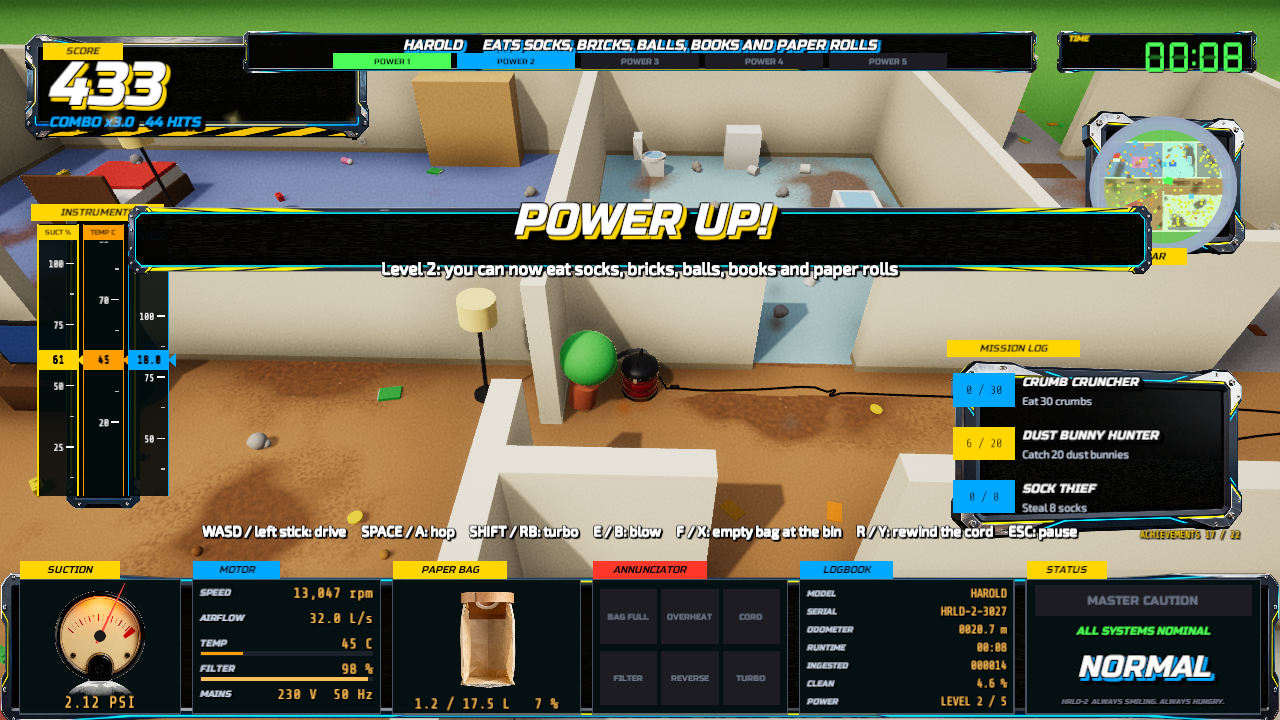
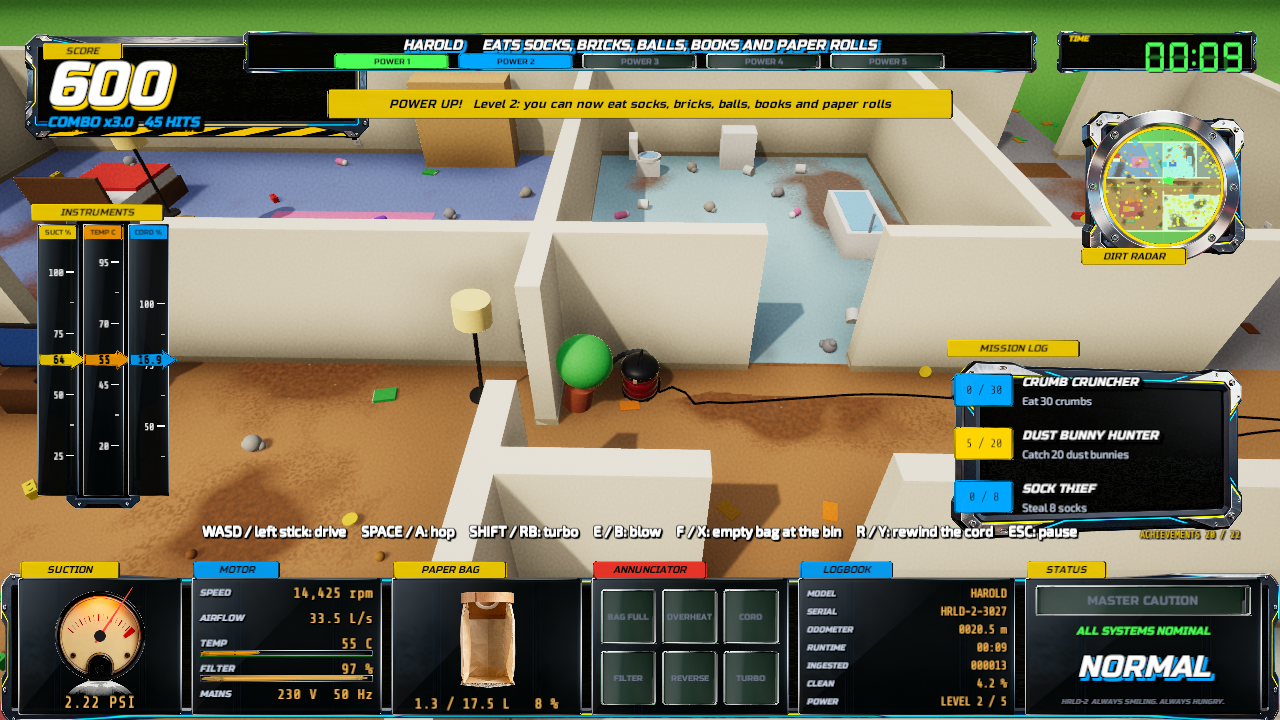
0.4.0: the eleven imported machines join the garage collection with names of their own (Hubert the Grin, Baron Vortex, Sir Mops-a-Lot, Big Bertha, Twiglet, Wanda, Monsieur Traineau, Bluebarrel, Bumper, Puck, Hubert Junior), no credit line under the name (docs/CREDITS.md keeps them), museum toggle re
Claude-Session: https://claude.ai/code/session_01S8Gcv6w4NipyAN3xdLWj4x

diff --git a/Assets/Scripts/Player/ImportedVacuums.cs b/Assets/Scripts/Player/ImportedVacuums.cs
@@ -5,10 +5,10 @@ using VCS.World;
 namespace VCS.Player
 {
     /// <summary>
-    /// The museum: real machines on loan. Meshes downloaded from Objaverse (the Hugging Face mirror of Sketchfab's
+    /// Real machines in the collection. Meshes downloaded from Objaverse (the Hugging Face mirror of Sketchfab's
     /// Creative Commons models), decimated to about 4k faces by tools/lowpoly.py into Resources/Models, and listed
-    /// here as hidden catalogue entries (M on the title screen opens the museum). Every entry carries its CC-BY
-    /// credit, shown under the name and repeated in docs/CREDITS.md. Names are the game's own; no brand is claimed.
+    /// after the eight built models. Every entry carries its CC-BY credit for docs/CREDITS.md (the garage shows only
+    /// the game's own name and tagline). Names are the game's own; no brand is claimed.
     /// </summary>
     public static class ImportedVacuums
     {
@@ -25,27 +25,27 @@ namespace VCS.Player
 
         static readonly Entry[] Entries =
         {
-            new Entry { Id = "m_redcanister", Model = "henry", Name = "The Red Canister", Tagline = "A smile, a hose, a bag the size of a pillow.",
+            new Entry { Id = "m_redcanister", Model = "henry", Name = "Hubert the Grin", Tagline = "A smile, a hose, a bag the size of a pillow.",
                         Credit = "Model: Henry Vacuum by rhcreations (CC BY 4.0, Sketchfab)", Size = 0.62f, Height = 0.55f, Nozzle = new Vector3(0.05f, 0.05f, 0.28f), Bag = 160f, Speed = 6.5f },
-            new Entry { Id = "m_cyclone", Model = "dyson_upright", Name = "The Cyclone Upright", Tagline = "Ball, bin, no bag, no mercy.",
+            new Entry { Id = "m_cyclone", Model = "dyson_upright", Name = "Baron Vortex", Tagline = "Ball, bin, no bag, no mercy.",
                         Credit = "Model: Upright Dyson Vacuum Cleaner by rhcreations (CC BY 4.0, Sketchfab)", Size = 0.42f, Height = 1.2f, Nozzle = new Vector3(0f, 0.05f, 0.17f), Speed = 7.5f, Hop = 7f },
-            new Entry { Id = "m_aquastick", Model = "philips_aquatrio", Name = "The Wet Stick", Tagline = "Vacuums, mops, judges.",
+            new Entry { Id = "m_aquastick", Model = "philips_aquatrio", Name = "Sir Mops-a-Lot", Tagline = "Vacuums, mops, judges.",
                         Credit = "Model: PHILIPS AquaTrio Pro by artemtem (CC BY 4.0, Sketchfab)", Size = 0.42f, Height = 1.25f, Nozzle = new Vector3(0f, 0.05f, 0.16f), Cordless = true, Speed = 7.5f, Bag = 60f },
-            new Entry { Id = "m_yellowdrum", Model = "vacuum_4k", Name = "The Yellow Drum", Tagline = "Workshop grade. Eats screws for breakfast.",
+            new Entry { Id = "m_yellowdrum", Model = "vacuum_4k", Name = "Big Bertha", Tagline = "Workshop grade. Eats screws for breakfast.",
                         Credit = "Model: Vacuum Cleaner by rescue3d (CC BY 4.0, Sketchfab)", Size = 0.62f, Height = 0.75f, Yaw = -29f, Nozzle = new Vector3(0f, 0.05f, 0.32f), Bag = 220f, Speed = 5.5f },
-            new Entry { Id = "m_greystick", Model = "sixth_hm", Name = "The Grey Stick", Tagline = "Student project. Surprisingly hungry.",
+            new Entry { Id = "m_greystick", Model = "sixth_hm", Name = "Twiglet", Tagline = "Student project. Surprisingly hungry.",
                         Credit = "Model: Sixth HM XYZ - A vacuum cleaner by nimzuk (CC BY 4.0, Sketchfab)", Size = 0.34f, Height = 1.2f, Yaw = -90f, Nozzle = new Vector3(0f, 0.05f, 0.10f), Speed = 7f, Bag = 50f },
-            new Entry { Id = "m_wand", Model = "vacuum_20k", Name = "The Cordless Wand", Tagline = "Forty minutes of battery, forty years of dust.",
+            new Entry { Id = "m_wand", Model = "vacuum_20k", Name = "Wanda", Tagline = "Forty minutes of battery, forty years of dust.",
                         Credit = "Model: Vacuum Cleaner by kikumi (CC BY 4.0, Sketchfab)", Size = 0.34f, Height = 1.1f, Yaw = 90f, Nozzle = new Vector3(0f, 0.05f, 0.18f), Cordless = true, Speed = 8f, Bag = 45f },
-            new Entry { Id = "m_redsled", Model = "vacuum_82k", Name = "The Red Sled", Tagline = "Un traineau. Glisse, aspire, ne dit rien.",
+            new Entry { Id = "m_redsled", Model = "vacuum_82k", Name = "Monsieur Traineau", Tagline = "Un traineau. Glisse, aspire, ne dit rien.",
                         Credit = "Model: vacuum cleaner by huseyinCG (CC BY 4.0, Sketchfab)", Size = 0.9f, Height = 0.5f, Yaw = 90f, Nozzle = new Vector3(0f, 0.05f, 0.42f), Bag = 140f, Speed = 7f },
-            new Entry { Id = "m_bluedrum", Model = "canister_a", Name = "The Blue Drum", Tagline = "Compact, cheerful, slightly too loud.",
+            new Entry { Id = "m_bluedrum", Model = "canister_a", Name = "Bluebarrel", Tagline = "Compact, cheerful, slightly too loud.",
                         Credit = "Model: Vacuum Cleaner by snowykov (CC BY 4.0, Sketchfab)", Size = 0.5f, Height = 0.6f, Nozzle = new Vector3(0f, 0.05f, 0.32f), Bag = 120f, Speed = 6.5f },
-            new Entry { Id = "m_greyrobot", Model = "robvac", Name = "The Grey Robot", Tagline = "Bumps into everything. On purpose.",
+            new Entry { Id = "m_greyrobot", Model = "robvac", Name = "Bumper", Tagline = "Bumps into everything. On purpose.",
                         Credit = "Model: Robot vacuum Cleaner Rob-vac by darkfrei (CC BY 4.0, Sketchfab)", Size = 0.5f, Height = 0.3f, Nozzle = new Vector3(0f, 0.06f, 0.20f), Cordless = true, Speed = 6f, Hop = 4.5f, Bag = 40f },
-            new Entry { Id = "m_roundone", Model = "roomba_888", Name = "The Round One", Tagline = "Eight hundred and eighty-eight polygons of patience.",
+            new Entry { Id = "m_roundone", Model = "roomba_888", Name = "Puck", Tagline = "Eight hundred and eighty-eight polygons of patience.",
                         Credit = "Model: Low-poly Roomba by Seats (CC BY 4.0, Sketchfab)", Size = 0.5f, Height = 0.3f, Nozzle = new Vector3(0f, 0.06f, 0.20f), Cordless = true, Speed = 6.5f, Hop = 4.5f, Bag = 40f },
-            new Entry { Id = "m_littlered", Model = "henry_lowpoly", Name = "The Little Red One", Tagline = "Five hundred polygons and a grin.",
+            new Entry { Id = "m_littlered", Model = "henry_lowpoly", Name = "Hubert Junior", Tagline = "Five hundred polygons and a grin.",
                         Credit = "Model: Low Poly \"Henry Hoover\" Vacuum Cleaner by TheoClarke (CC BY 4.0, Sketchfab)", Size = 0.55f, Height = 0.55f, Nozzle = new Vector3(0f, 0.05f, 0.25f), Bag = 150f, Speed = 6.5f },
         };
 
@@ -57,9 +57,9 @@ namespace VCS.Player
                 var entry = e;
                 all.Add(new VacuumSpec
                 {
-                    Id = entry.Id, Name = entry.Name, Tagline = entry.Tagline, Credit = entry.Credit, Hidden = true,
+                    Id = entry.Id, Name = entry.Name, Tagline = entry.Tagline, Credit = entry.Credit, Imported = true,
                     Speed = entry.Speed, Hop = entry.Hop, BagCapacity = entry.Bag, Cordless = entry.Cordless,
-                    NozzleLocal = entry.Nozzle, Height = entry.Height, ModelCode = "MUSEUM-" + (++n).ToString("00"),
+                    NozzleLocal = entry.Nozzle, Height = entry.Height, ModelCode = "GUEST-" + (++n).ToString("00"),
                     Accent = new Color(0.85f, 0.85f, 0.9f), Build = (g, s) => Build(entry, g),
                 });
             }
@@ -71,7 +71,7 @@ namespace VCS.Player
             var prefab = Resources.Load<GameObject>("Models/" + e.Model);
             if (prefab == null)
             {
-                Debug.LogWarning("[VCS] Museum model missing: " + e.Model);
+                Debug.LogWarning("[VCS] Imported model missing: " + e.Model);
                 PropFactory.Prim(PrimitiveType.Cube, g, new Vector3(0f, 0.25f, 0f), new Vector3(0.4f, 0.5f, 0.4f), Color.gray, "Missing", false);
                 return;
             }

diff --git a/Assets/Scripts/Player/VacuumCatalog.cs b/Assets/Scripts/Player/VacuumCatalog.cs
@@ -50,8 +50,8 @@ namespace VCS.Player
         public float MotorRpmMax = 18000f;
         public Color Accent = new Color(1f, 0.6f, 0.25f);
         public bool Cordless;
-        /// <summary>Museum piece (imported real-product mesh): only listed when the museum is unlocked (M on the title screen).</summary>
-        public bool Hidden;
+        /// <summary>Imported real-product mesh (see ImportedVacuums) rather than a built model; the gallery tools use it.</summary>
+        public bool Imported;
         /// <summary>Attribution line for imported meshes (CC-BY), shown under the name.</summary>
         public string Credit;
         public string ModelCode = "DP-01";
@@ -145,24 +145,8 @@ namespace VCS.Player
             ImportedVacuums.AddTo(All);
         }
 
-        /// <summary>The museum: real machines on loan, imported from Objaverse (see ImportedVacuums).</summary>
-        public static bool MuseumUnlocked
-        {
-            get => PlayerPrefs.GetInt("museum", 0) == 1;
-            set => PlayerPrefs.SetInt("museum", value ? 1 : 0);
-        }
-
-        /// <summary>What the garage shows: the regular eight, plus the museum pieces once unlocked.</summary>
-        public static List<VacuumSpec> Visible
-        {
-            get
-            {
-                var list = new List<VacuumSpec>();
-                bool museum = MuseumUnlocked;
-                foreach (var s in All) if (!s.Hidden || museum) list.Add(s);
-                return list;
-            }
-        }
+        /// <summary>What the garage shows: everything, the eight built models first, then the eleven imported ones.</summary>
+        public static List<VacuumSpec> Visible => All;
 
         public static VacuumSpec Get(string id)
         {

diff --git a/Assets/Scripts/UI/MenuController.cs b/Assets/Scripts/UI/MenuController.cs
@@ -200,7 +200,7 @@ namespace VCS.UI
             VacuumCatalog.SelectedId = s.Id;
             PlayerPrefs.Save();
             vacuumName.text = s.Name.ToUpperInvariant();
-            vacuumTagline.text = string.IsNullOrEmpty(s.Credit) ? s.Tagline : s.Tagline + "\n" + s.Credit;
+            vacuumTagline.text = s.Tagline;
             float[] values = { s.SpeedBar, s.SuctionBar, s.BagBar, s.HopBar };
             for (int k = 0; k < bars.Length; k++)
                 bars[k].rectTransform.anchorMax = new Vector2(Mathf.Clamp(values[k], 0.04f, 1f), 1f);
@@ -228,14 +228,6 @@ namespace VCS.UI
                 titleRect.localRotation = Quaternion.Euler(0f, 0f, Mathf.Sin(t * 2f) * 1.5f);
                 titleRect.localScale = Vector3.one * (1f + 0.02f * Mathf.Sin(t * 3f));
                 titlePrompt.color = new Color(1f, 1f, 1f, 0.85f + 0.15f * Mathf.Sin(t * 4f));
-                if (Input.GetKeyDown(KeyCode.M))
-                {
-                    VacuumCatalog.MuseumUnlocked = !VacuumCatalog.MuseumUnlocked;
-                    SelectVacuumIndex(0);
-                    var gmm = GameManager.I;
-                    if (gmm != null) gmm.Audio.PlayDing();
-                    Debug.Log("[VCS] Museum " + (VacuumCatalog.MuseumUnlocked ? "open" : "closed"));
-                }
                 int h = GameInput.MenuNavHorizontal();
                 if (h != 0)
                 {

diff --git a/Assets/Scripts/Core/GalleryRunner.cs b/Assets/Scripts/Core/GalleryRunner.cs
@@ -51,7 +51,7 @@ namespace VCS.Core
                 VacuumModels.UseV2 = look;
                 foreach (var s in VacuumCatalog.All)
                 {
-                    if (s.Hidden) continue;   // museum pieces are rendered by the import loop below
+                    if (s.Imported) continue;   // imported meshes are rendered by the import loop below
                     string file = Path.Combine(outDir, (look ? "after-" : "before-") + s.Id + ".png");
                     preview.RenderStill(s, -35f, 768, file);
                     Debug.Log("[VCS] Gallery " + file);
@@ -118,7 +118,7 @@ namespace VCS.Core
             Palette.Realistic = true;
             foreach (var s in VacuumCatalog.All)
             {
-                if (!s.Hidden) continue;
+                if (!s.Imported) continue;
                 var spec = s;
                 var marked = new VacuumSpec { Id = spec.Id, Name = spec.Name, Height = spec.Height, NozzleLocal = spec.NozzleLocal, Build = (g, s2) =>
                 {

diff --git a/Assets/Scripts/Player/SuctionSystem.cs b/Assets/Scripts/Player/SuctionSystem.cs
@@ -20,7 +20,8 @@ namespace VCS.Player
     public class SuctionSystem : MonoBehaviour
     {
         static readonly float[] RadiusByPower = { 0f, 2.4f, 3.0f, 3.8f, 4.6f, 5.5f };
-        static readonly float[] AbsorbByPower = { 0f, 0.8f, 0.95f, 1.15f, 1.45f, 1.8f };
+        // 2026-09-06: shortened by about a third, things vanished too far from the nozzle
+        static readonly float[] AbsorbByPower = { 0f, 0.55f, 0.66f, 0.8f, 1.0f, 1.25f };
         static readonly float[] PullByPower = { 0f, 16f, 20f, 26f, 34f, 44f };
         const float HalfAngle = 65f;
         const float BlowForce = 40f;
@@ -145,7 +146,7 @@ namespace VCS.Player
                 if (!inCone) continue;
 
                 bool edible = d.SizeClass <= maxClass && !BagFull;
-                if (edible && dist < absorb * (1f + d.SizeClass * 0.15f))
+                if (edible && dist < absorb * (1f + d.SizeClass * 0.12f))
                 {
                     Absorb(gm, d);
                     continue;

diff --git a/Assets/Editor/ProjectSetup.cs b/Assets/Editor/ProjectSetup.cs
@@ -20,7 +20,7 @@ namespace VCS.Editor
         {
             PlayerSettings.productName = "Vacuum Cleaner Simulator 2026";
             PlayerSettings.companyName = "Cosnuau";
-            PlayerSettings.bundleVersion = "0.3.0";
+            PlayerSettings.bundleVersion = "0.4.0";
             PlayerSettings.colorSpace = ColorSpace.Linear;
             PlayerSettings.fullScreenMode = FullScreenMode.FullScreenWindow;
             PlayerSettings.resizableWindow = true;

diff --git a/Assets/Scripts/Core/GameManager.cs b/Assets/Scripts/Core/GameManager.cs
@@ -18,7 +18,7 @@ namespace VCS.Core
     public class GameManager : MonoBehaviour
     {
         public const string GameName = "Vacuum Cleaner Simulator 2026";
-        public const string Version = "0.3.0";
+        public const string Version = "0.4.0";
         public const int MaxPower = 5;
         public static readonly int[] PowerThresholds = { 0, 300, 1000, 2500, 5000 };
 

diff --git a/docs/CREDITS.md b/docs/CREDITS.md
@@ -1,24 +1,24 @@
 # Credits
 
-## Museum models (Creative Commons Attribution 4.0)
+## Collection models (Creative Commons Attribution 4.0)
 
-The garage's museum (press M on the title screen) shows real machines modelled by the artists below. Meshes come from
+The garage's collection (press M on the title screen) shows real machines modelled by the artists below. Meshes come from
 Objaverse, the open mirror of Sketchfab's Creative Commons models, decimated for the game. They are shown with the
 game's own nicknames; no brand name or logo is claimed by the game.
 
 | In the game | Original model | Author | Licence |
 |-------------|----------------|--------|---------|
-| The Red Canister | Henry Vacuum | rhcreations | CC BY 4.0 |
-| The Little Red One | Low Poly "Henry Hoover" Vacuum Cleaner | TheoClarke | CC BY 4.0 |
-| The Cyclone Upright | Upright Dyson Vacuum Cleaner | rhcreations | CC BY 4.0 |
-| The Wet Stick | PHILIPS AquaTrio Pro | artemtem | CC BY 4.0 |
-| The Yellow Drum | Vacuum Cleaner | rescue3d | CC BY 4.0 |
-| The Grey Stick | Sixth HM XYZ - A vacuum cleaner | nimzuk | CC BY 4.0 |
-| The Cordless Wand | Vacuum Cleaner | kikumi | CC BY 4.0 |
-| The Red Sled | vacuum cleaner | huseyinCG | CC BY 4.0 |
-| The Blue Drum | Vacuum Cleaner | snowykov | CC BY 4.0 |
-| The Grey Robot | Robot vacuum Cleaner Rob-vac | darkfrei | CC BY 4.0 |
-| The Round One | Low-poly Roomba | Seats | CC BY 4.0 |
+| Hubert the Grin | Henry Vacuum | rhcreations | CC BY 4.0 |
+| Hubert Junior | Low Poly "Henry Hoover" Vacuum Cleaner | TheoClarke | CC BY 4.0 |
+| Baron Vortex | Upright Dyson Vacuum Cleaner | rhcreations | CC BY 4.0 |
+| Sir Mops-a-Lot | PHILIPS AquaTrio Pro | artemtem | CC BY 4.0 |
+| Big Bertha | Vacuum Cleaner | rescue3d | CC BY 4.0 |
+| Twiglet | Sixth HM XYZ - A vacuum cleaner | nimzuk | CC BY 4.0 |
+| Wanda | Vacuum Cleaner | kikumi | CC BY 4.0 |
+| Monsieur Traineau | vacuum cleaner | huseyinCG | CC BY 4.0 |
+| Bluebarrel | Vacuum Cleaner | snowykov | CC BY 4.0 |
+| Bumper | Robot vacuum Cleaner Rob-vac | darkfrei | CC BY 4.0 |
+| Puck | Low-poly Roomba | Seats | CC BY 4.0 |
 
 Links: https://sketchfab.com/3d-models/<name>-<uid> with the uids listed in `docs/research/sketchfab-vacuums.csv`.
 Licence text: https://creativecommons.org/licenses/by/4.0/

diff --git a/CLAUDE.md b/CLAUDE.md
@@ -149,11 +149,12 @@ Everything is created from code at runtime; there are no prefabs, no art, no aud
   the textures as PNG and exports OBJ (Y up, -Z forward; FBX was abandoned: Unity mangled axes and scale) into
   `Assets/Resources/Models`. Philips: `... philips_aquatrio.obj 4000 0.55 0 0.05 50000`. The gallery renders every
   model found there (`import-*.png`, `docs/screenshots/models-imported.png`).
-- The museum (`ImportedVacuums`): the eleven imported meshes are hidden catalogue entries (`VacuumSpec.Hidden`,
-  `Credit`) instantiated from `Resources/Models/<name>` with runtime normalisation (largest horizontal extent =
-  `Size`, base on the floor, centred). M on the title screen toggles `VacuumCatalog.MuseumUnlocked` (PlayerPrefs
-  `museum`); `VacuumCatalog.Visible` is what the garage lists. CC-BY credits under the name and in `docs/CREDITS.md`;
-  the game's own names, never the product's.
+- The imported machines (`ImportedVacuums`, 2026-09-06 "add the new models to the collection"): the eleven meshes
+  are regular catalogue entries after the eight built ones (`VacuumSpec.Imported`, `Credit`), instantiated from
+  `Resources/Models/<name>` with runtime normalisation (largest horizontal extent = `Size`, base on the floor,
+  centred), `Yaw` and `Nozzle` per entry read off `tools/museum.ps1`. Parody names of the game's own (Hubert the
+  Grin, Baron Vortex, Monsieur Traineau...), never the product's; the garage shows no credit line, the CC-BY credits
+  live in `docs/CREDITS.md`. The former museum toggle (M) is gone.
 - Cocoa powder (`PowderSystem`, one `PowderLayer` quad per room at y = 0.012): generated RGBA texture at 36 px/m
   (splats, streaks, dusting), `Resources/Materials/Fade.mat` (Standard Fade, keyword in the asset). `SuctionSystem.Suck`
   calls `Powder.Vacuum(nozzle, radius)` every physics step while grounded and the bag has room: it zeroes alpha in a

diff --git a/README.md b/README.md
@@ -13,10 +13,10 @@ Rated for ages 8 and up: cartoon chaos, no violence.
 ![Rewinding the cord](docs/screenshots/cord-rewind.png)
 ![The vacuum's path through the cocoa powder](docs/screenshots/powder.png)
 
-The museum (M on the title screen): eleven real machines on loan, Creative Commons meshes decimated to game size,
-credited in the garage and in [docs/CREDITS.md](docs/CREDITS.md).
+Eleven real machines join the eight built ones in the garage: Creative Commons meshes decimated to game size, with
+the game's own names; their authors are credited in [docs/CREDITS.md](docs/CREDITS.md).
 
-![The museum](docs/screenshots/models-imported.png)
+![The imported machines](docs/screenshots/models-imported.png)
 
 Targets: Steam (Windows 64-bit) first, Xbox / Microsoft Store next. See `docs/PUBLISHING.md` and `docs/STORE.md`.
 Source is published for reference; see `LICENSE.md`.
